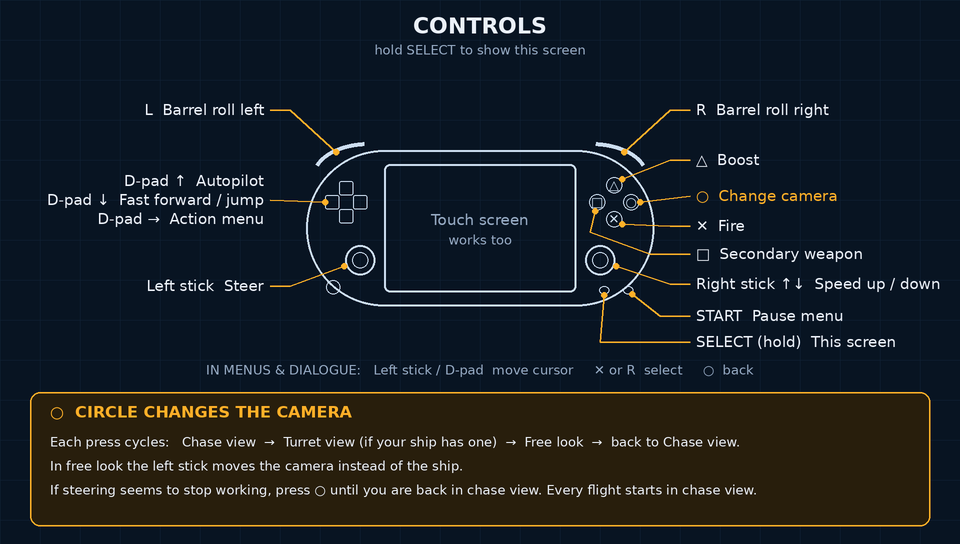
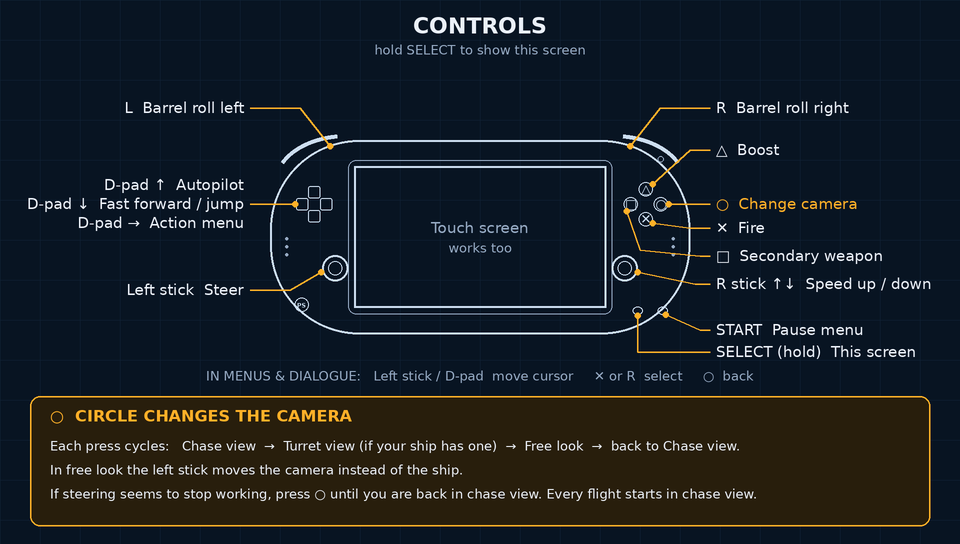
Controls card: draw the Vita to its real proportions
Claude-Session: https://claude.ai/code/session_01GjSetdPLKXfcFUXFEpS84V

diff --git a/tools/make_controls_png.py b/tools/make_controls_png.py
@@ -18,37 +18,51 @@ lw = 2 * S
 d.text(P(480, 26), "CONTROLS", font=title, fill=TXT, anchor="mm")
 d.text(P(480, 50), "hold SELECT to show this screen", font=small, fill=DIM, anchor="mm")
 
-# --- Vita body
-cx, cy = 480, 228
-bx0, bx1, by0, by1 = 306, 654, 150, 306
-d.rounded_rectangle(box(bx0, by0, bx1, by1), radius=78 * S, outline=LINE, width=lw)
-d.rounded_rectangle(box(384, 164, 576, 292), radius=6 * S, outline=LINE, width=lw)        # screen
+# --- Vita (PCH-1000) body, drawn to its real proportions (182 x 84 mm,
+# 5" 16:9 screen in the middle, D-pad + left stick + PS button on the left,
+# face buttons + right stick + SELECT/START on the right).
+bx0, by0, BW, BH = 270, 140, 420, 194
+bx1, by1 = bx0 + BW, by0 + BH
+def V(fx, fy): return (bx0 + fx * BW, by0 + fy * BH)
+d.rounded_rectangle(box(bx0, by0, bx1, by1), radius=int(0.46 * BH) * S, outline=LINE, width=lw)
+sw, sh = 0.60 * BW, 0.60 * BW * 9 / 16
+sx0, sy0 = bx0 + (BW - sw) / 2, by0 + (BH - sh) / 2
+d.rounded_rectangle(box(sx0 - 6, sy0 - 6, sx0 + sw + 6, sy0 + sh + 6), radius=8 * S, outline=DIM, width=S)  # glass
+d.rectangle(box(sx0, sy0, sx0 + sw, sy0 + sh), outline=LINE, width=lw)                                    # screen
 # shoulder buttons
-d.arc(box(bx0 + 6, by0 - 8, bx0 + 120, by0 + 60), 200, 265, fill=LINE, width=lw * 2)
-d.arc(box(bx1 - 120, by0 - 8, bx1 - 6, by0 + 60), 275, 340, fill=LINE, width=lw * 2)
+d.arc(box(bx0 + 4, by0 - 6, bx0 + 150, by0 + 90), 205, 262, fill=LINE, width=lw * 2)
+d.arc(box(bx1 - 150, by0 - 6, bx1 - 4, by0 + 90), 278, 335, fill=LINE, width=lw * 2)
 # D-pad
-dx, dy = 346, 202
-for (ox, oy) in ((0, -14), (0, 14), (-14, 0), (14, 0)):
-    d.rounded_rectangle(box(dx + ox - 7, dy + oy - 7, dx + ox + 7, dy + oy + 7), radius=2 * S, outline=LINE, width=S)
+dx, dy = V(0.105, 0.33)
+for (ox, oy) in ((0, -12), (0, 12), (-12, 0), (12, 0)):
+    d.rounded_rectangle(box(dx + ox - 6, dy + oy - 6, dx + ox + 6, dy + oy + 6), radius=2 * S, outline=LINE, width=S)
 # sticks
-lsx, lsy, rsx, rsy = 360, 260, 600, 260
+lsx, lsy = V(0.155, 0.66)
+rsx, rsy = V(0.845, 0.66)
 for (x, y) in ((lsx, lsy), (rsx, rsy)):
-    d.ellipse(box(x - 15, y - 15, x + 15, y + 15), outline=LINE, width=lw)
-    d.ellipse(box(x - 8, y - 8, x + 8, y + 8), outline=LINE, width=S)
+    d.ellipse(box(x - 13, y - 13, x + 13, y + 13), outline=LINE, width=lw)
+    d.ellipse(box(x - 7, y - 7, x + 7, y + 7), outline=LINE, width=S)
 # face buttons
-fx, fy = 614, 202
-face = {"tri": (fx, fy - 17), "cir": (fx + 17, fy), "crs": (fx, fy + 17), "sqr": (fx - 17, fy)}
+fx, fy = V(0.895, 0.33)
+face = {"tri": (fx, fy - 15), "cir": (fx + 15, fy), "crs": (fx, fy + 15), "sqr": (fx - 15, fy)}
 for k, (x, y) in face.items():
-    d.ellipse(box(x - 8, y - 8, x + 8, y + 8), outline=LINE, width=S)
-glyph = {"tri": "△", "cir": "○", "crs": "✕", "sqr": "□"}
+    d.ellipse(box(x - 7, y - 7, x + 7, y + 7), outline=LINE, width=S)
+glyph = {"tri": "\u25b3", "cir": "\u25cb", "crs": "\u2715", "sqr": "\u25a1"}
 for k, (x, y) in face.items():
-    d.text(P(x, y), glyph[k], font=sym, fill=LINE, anchor="mm")
-# start / select
-st, se = (628, 290), (604, 290)
-for (x, y) in (st, se):
+    d.text(P(x, y), glyph[k], font=small, fill=LINE, anchor="mm")
+# PS button, SELECT / START, front camera, speakers
+px, py = V(0.075, 0.85)
+d.ellipse(box(px - 7, py - 7, px + 7, py + 7), outline=LINE, width=S)
+d.text(P(px, py), "PS", font=font("DejaVuSans-Bold.ttf", 6), fill=LINE, anchor="mm")
+se = V(0.875, 0.88); st = V(0.935, 0.88)
+for (x, y) in (se, st):
     d.ellipse(box(x - 5, y - 4, x + 5, y + 4), outline=LINE, width=S)
-# PS button
-d.ellipse(box(326, 280, 340, 294), outline=LINE, width=S)
+cxm, cym = V(0.93, 0.10)
+d.ellipse(box(cxm - 3, cym - 3, cxm + 3, cym + 3), outline=DIM, width=S)
+for (fxs, fys) in ((0.04, 0.55), (0.96, 0.55)):
+    gx, gy = V(fxs, fys)
+    for k in range(3):
+        d.ellipse(box(gx - 1.5, gy - 8 + k * 8 - 1.5, gx + 1.5, gy - 8 + k * 8 + 1.5), fill=DIM)
 
 def callout(pts, text, anchor, color=TXT):
     d.line([P(*p) for p in pts], fill=ACC, width=S + 1)
@@ -60,28 +74,28 @@ def callout(pts, text, anchor, color=TXT):
         d.text(P(x + off, y + i * 19 - (len(lines) - 1) * 9.5), t, font=lab, fill=color, anchor=anchor)
 
 # left side
-callout([(336, 152), (290, 110), (270, 110)], "L  Barrel roll left", "rm")
-callout([(dx - 21, dy), (270, 200)], "D-pad ↑  Autopilot\nD-pad ↓  Fast forward / jump\nD-pad →  Action menu", "rm")
-callout([(lsx - 16, lsy + 6), (290, 286), (270, 286)], "Left stick  Steer", "rm")
+callout([(bx0 + 60, by0 + 6), (300, 108), (250, 108)], "L  Barrel roll left", "rm")
+callout([(dx - 19, dy), (250, dy)], "D-pad \u2191  Autopilot\nD-pad \u2193  Fast forward / jump\nD-pad \u2192  Action menu", "rm")
+callout([(lsx - 14, lsy + 4), (290, lsy + 22), (250, lsy + 22)], "Left stick  Steer", "rm")
 # right side
-callout([(624, 152), (670, 110), (690, 110)], "R  Barrel roll right", "lm")
-callout([(face["tri"][0] + 8, face["tri"][1] - 6), (670, 160), (690, 160)], "△  Boost", "lm")
-callout([(face["cir"][0] + 9, face["cir"][1]), (690, 196)], "○  Change camera", "lm", ACC)
-callout([(face["crs"][0] + 8, face["crs"][1] + 5), (670, 226), (690, 226)], "✕  Fire", "lm")
-callout([(face["sqr"][0] - 2, face["sqr"][1] + 9), (590, 232), (650, 254), (690, 254)], "□  Secondary weapon", "lm")
-callout([(rsx + 16, rsy + 6), (670, 284), (690, 284)], "Right stick ↑↓  Speed up / down", "lm")
-callout([(st[0] + 4, st[1] + 4), (660, 316), (690, 316)], "START  Pause menu", "lm")
-callout([(se[0], se[1] + 5), (600, 342), (690, 342)], "SELECT (hold)  This screen", "lm")
+callout([(bx1 - 60, by0 + 6), (660, 108), (710, 108)], "R  Barrel roll right", "lm")
+callout([(face["tri"][0] + 7, face["tri"][1] - 5), (690, 150), (710, 150)], "\u25b3  Boost", "lm")
+callout([(face["cir"][0] + 8, face["cir"][1]), (710, face["cir"][1])], "\u25cb  Change camera", "lm", ACC)
+callout([(face["crs"][0] + 7, face["crs"][1] + 4), (690, 228), (710, 228)], "\u2715  Fire", "lm")
+callout([(face["sqr"][0] - 4, face["sqr"][1] + 7), (640, 250), (700, 256), (710, 256)], "\u25a1  Secondary weapon", "lm")
+callout([(rsx + 13, rsy + 4), (695, 284), (710, 284)], "R stick \u2191\u2193  Speed up / down", "lm")
+callout([(st[0] + 3, st[1] + 4), (700, 330), (710, 330)], "START  Pause menu", "lm")
+callout([(se[0], se[1] + 5), (se[0], 352), (710, 352)], "SELECT (hold)  This screen", "lm")
 # screen label
-d.text(P(480, 220), "Touch screen", font=lab, fill=DIM, anchor="mm")
-d.text(P(480, 240), "works too", font=small, fill=DIM, anchor="mm")
+d.text(P(480, 228), "Touch screen", font=lab, fill=DIM, anchor="mm")
+d.text(P(480, 248), "works too", font=small, fill=DIM, anchor="mm")
 
 # menus line
-d.text(P(480, 370), "IN MENUS & DIALOGUE:   Left stick / D-pad  move cursor     ✕ or R  select     ○  back",
+d.text(P(480, 376), "IN MENUS & DIALOGUE:   Left stick / D-pad  move cursor     ✕ or R  select     ○  back",
        font=small, fill=DIM, anchor="mm")
 
 # circle notice
-y0 = 392
+y0 = 396
 d.rounded_rectangle(box(30, y0, 930, 526), radius=10 * S, fill=(40, 30, 12), outline=ACC, width=S + 1)
 d.text(P(50, y0 + 20), "○  CIRCLE CHANGES THE CAMERA", font=font("DejaVuSans-Bold.ttf", 16), fill=ACC, anchor="lm")
 for i, t in enumerate([
